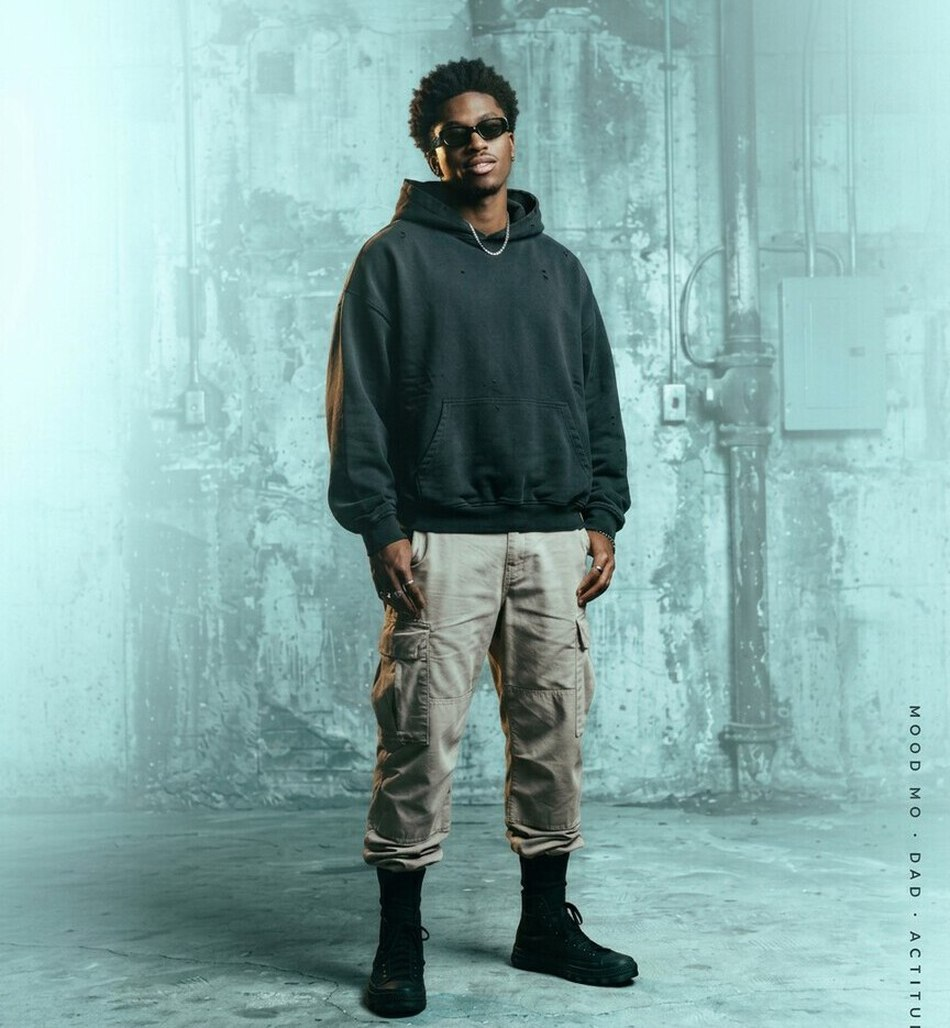
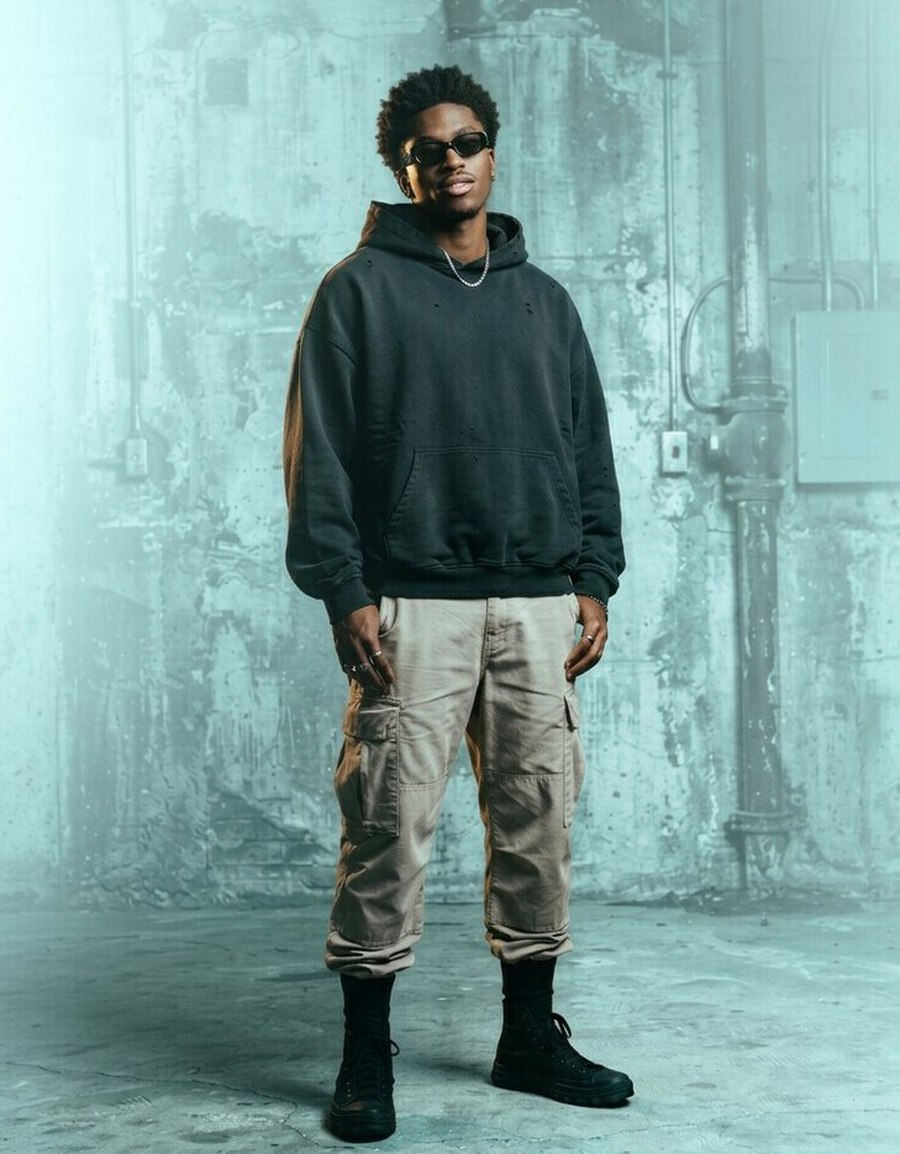
Foto del hero recortada a 0.78 (proporcion real verificada en pantalla, no solo calculada); panel actualizado

diff --git a/src/components/AdminPanel.tsx b/src/components/AdminPanel.tsx
@@ -486,7 +486,7 @@ export function AdminPanel() {
                   </div>
                 </div>
                 <p className="mb-4 flex flex-wrap items-center gap-2 text-[11px] text-tenue">
-                  <span className="rounded-full bg-acento/15 px-2.5 py-1 text-xs font-semibold text-acento">📐 Vertical, proporción 0.80 a 0.90 — ideal 950 × 1050 px</span>
+                  <span className="rounded-full bg-acento/15 px-2.5 py-1 text-xs font-semibold text-acento">📐 Vertical, proporción 0.78 — ideal 900 × 1150 px</span>
                   <span>Foto de cuerpo entero (cabeza a los pies), más alta que ancha. Ocupa el costado derecho de la pantalla, de arriba a abajo — no todo el ancho. Se funde sola con el color de tu tienda del lado del texto, así no se nota el corte.</span>
                 </p>
                 <div className="grid gap-4">
